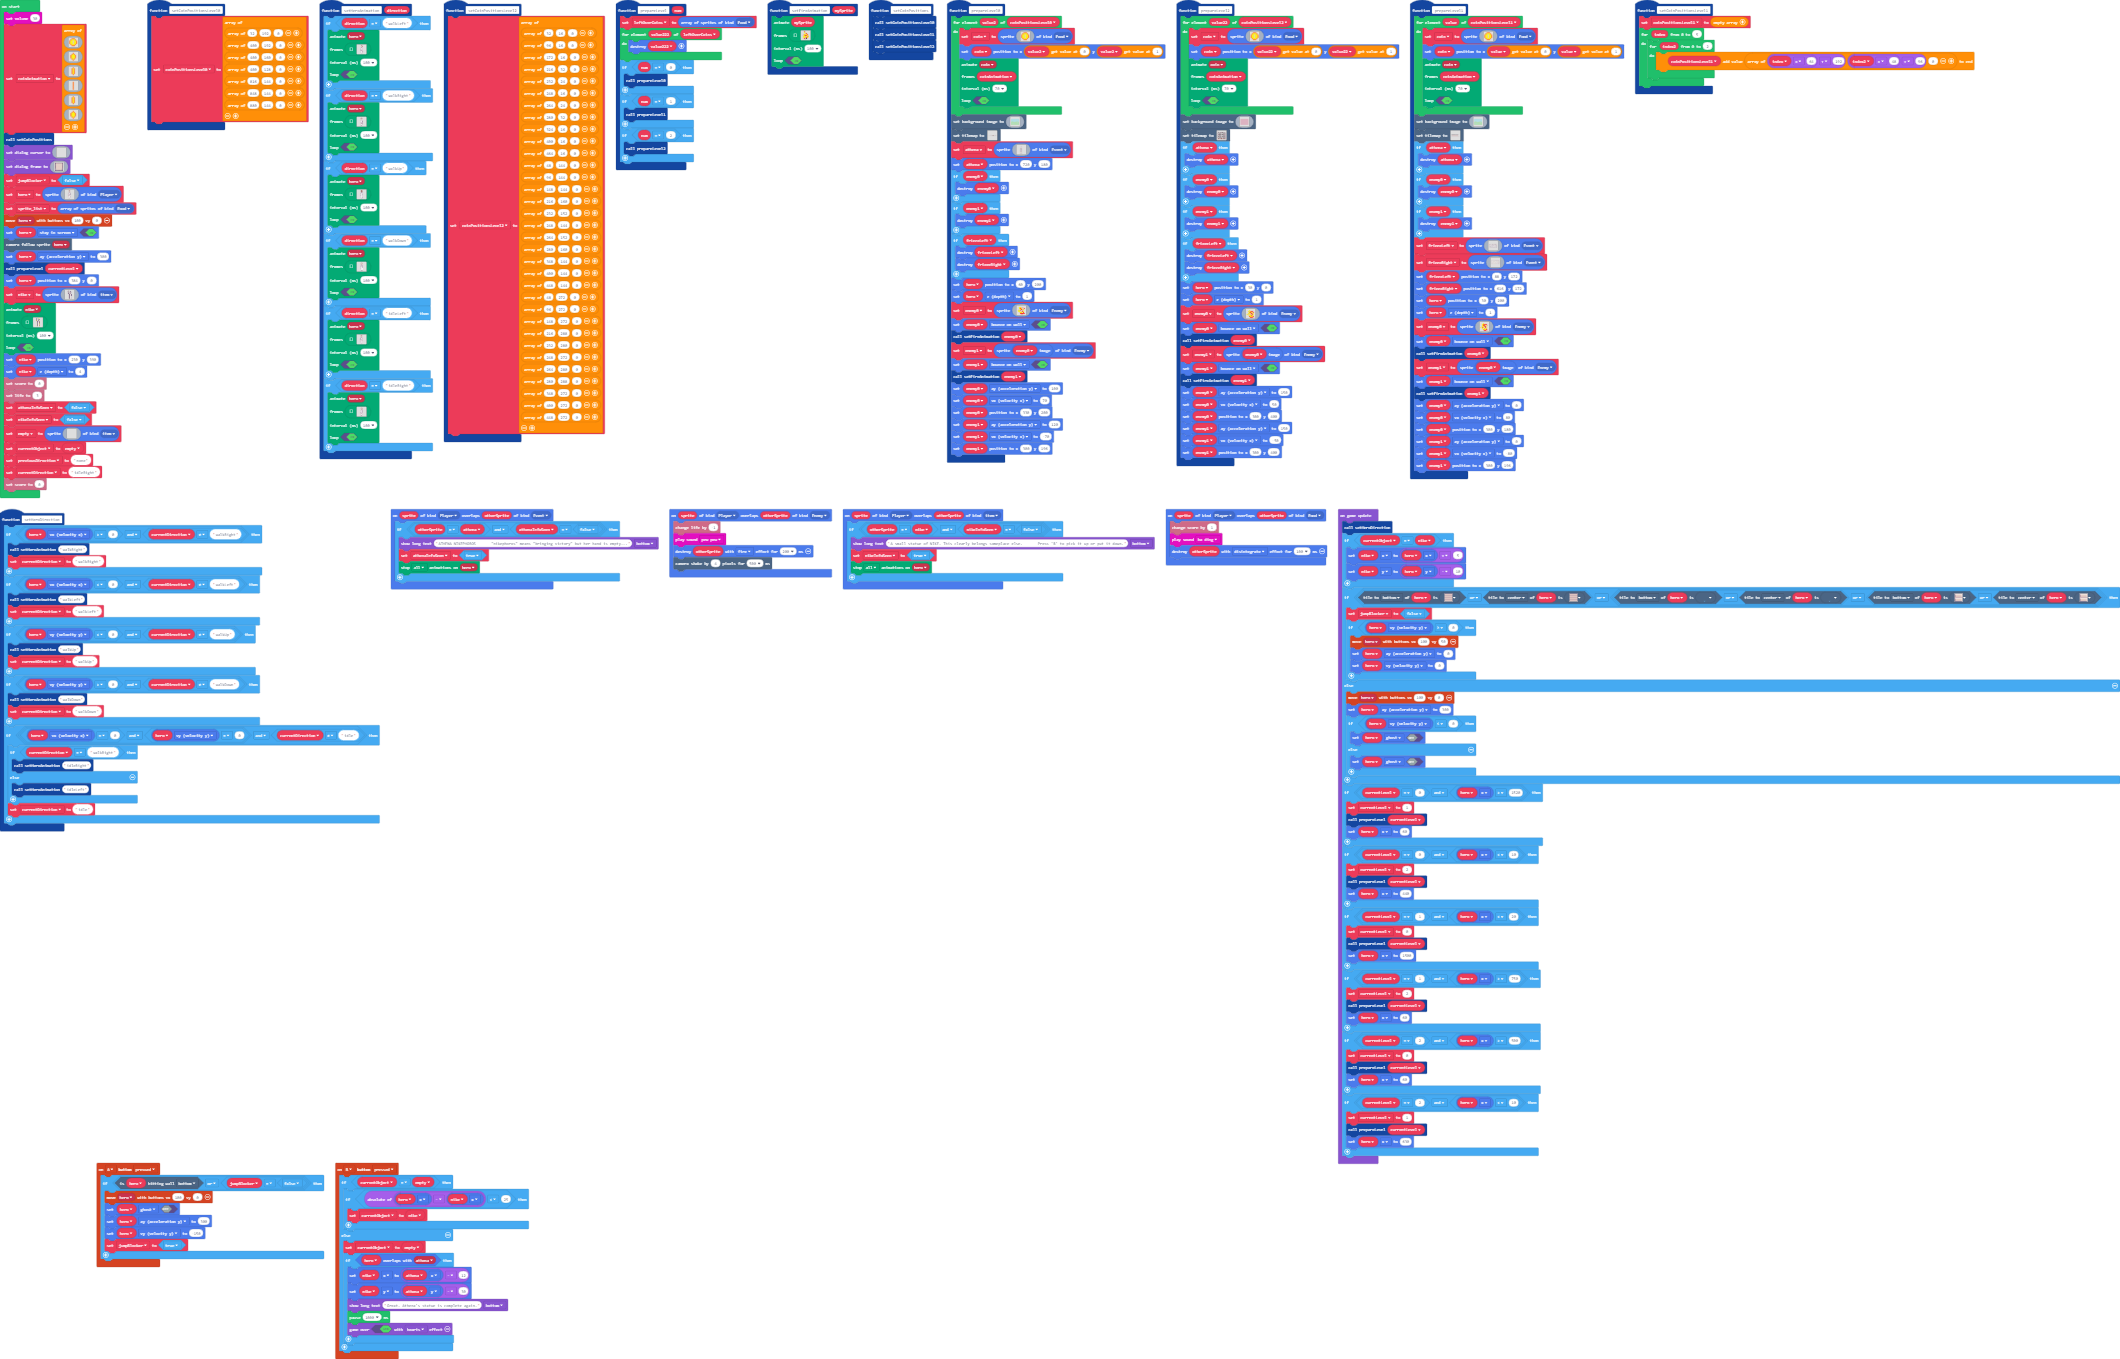
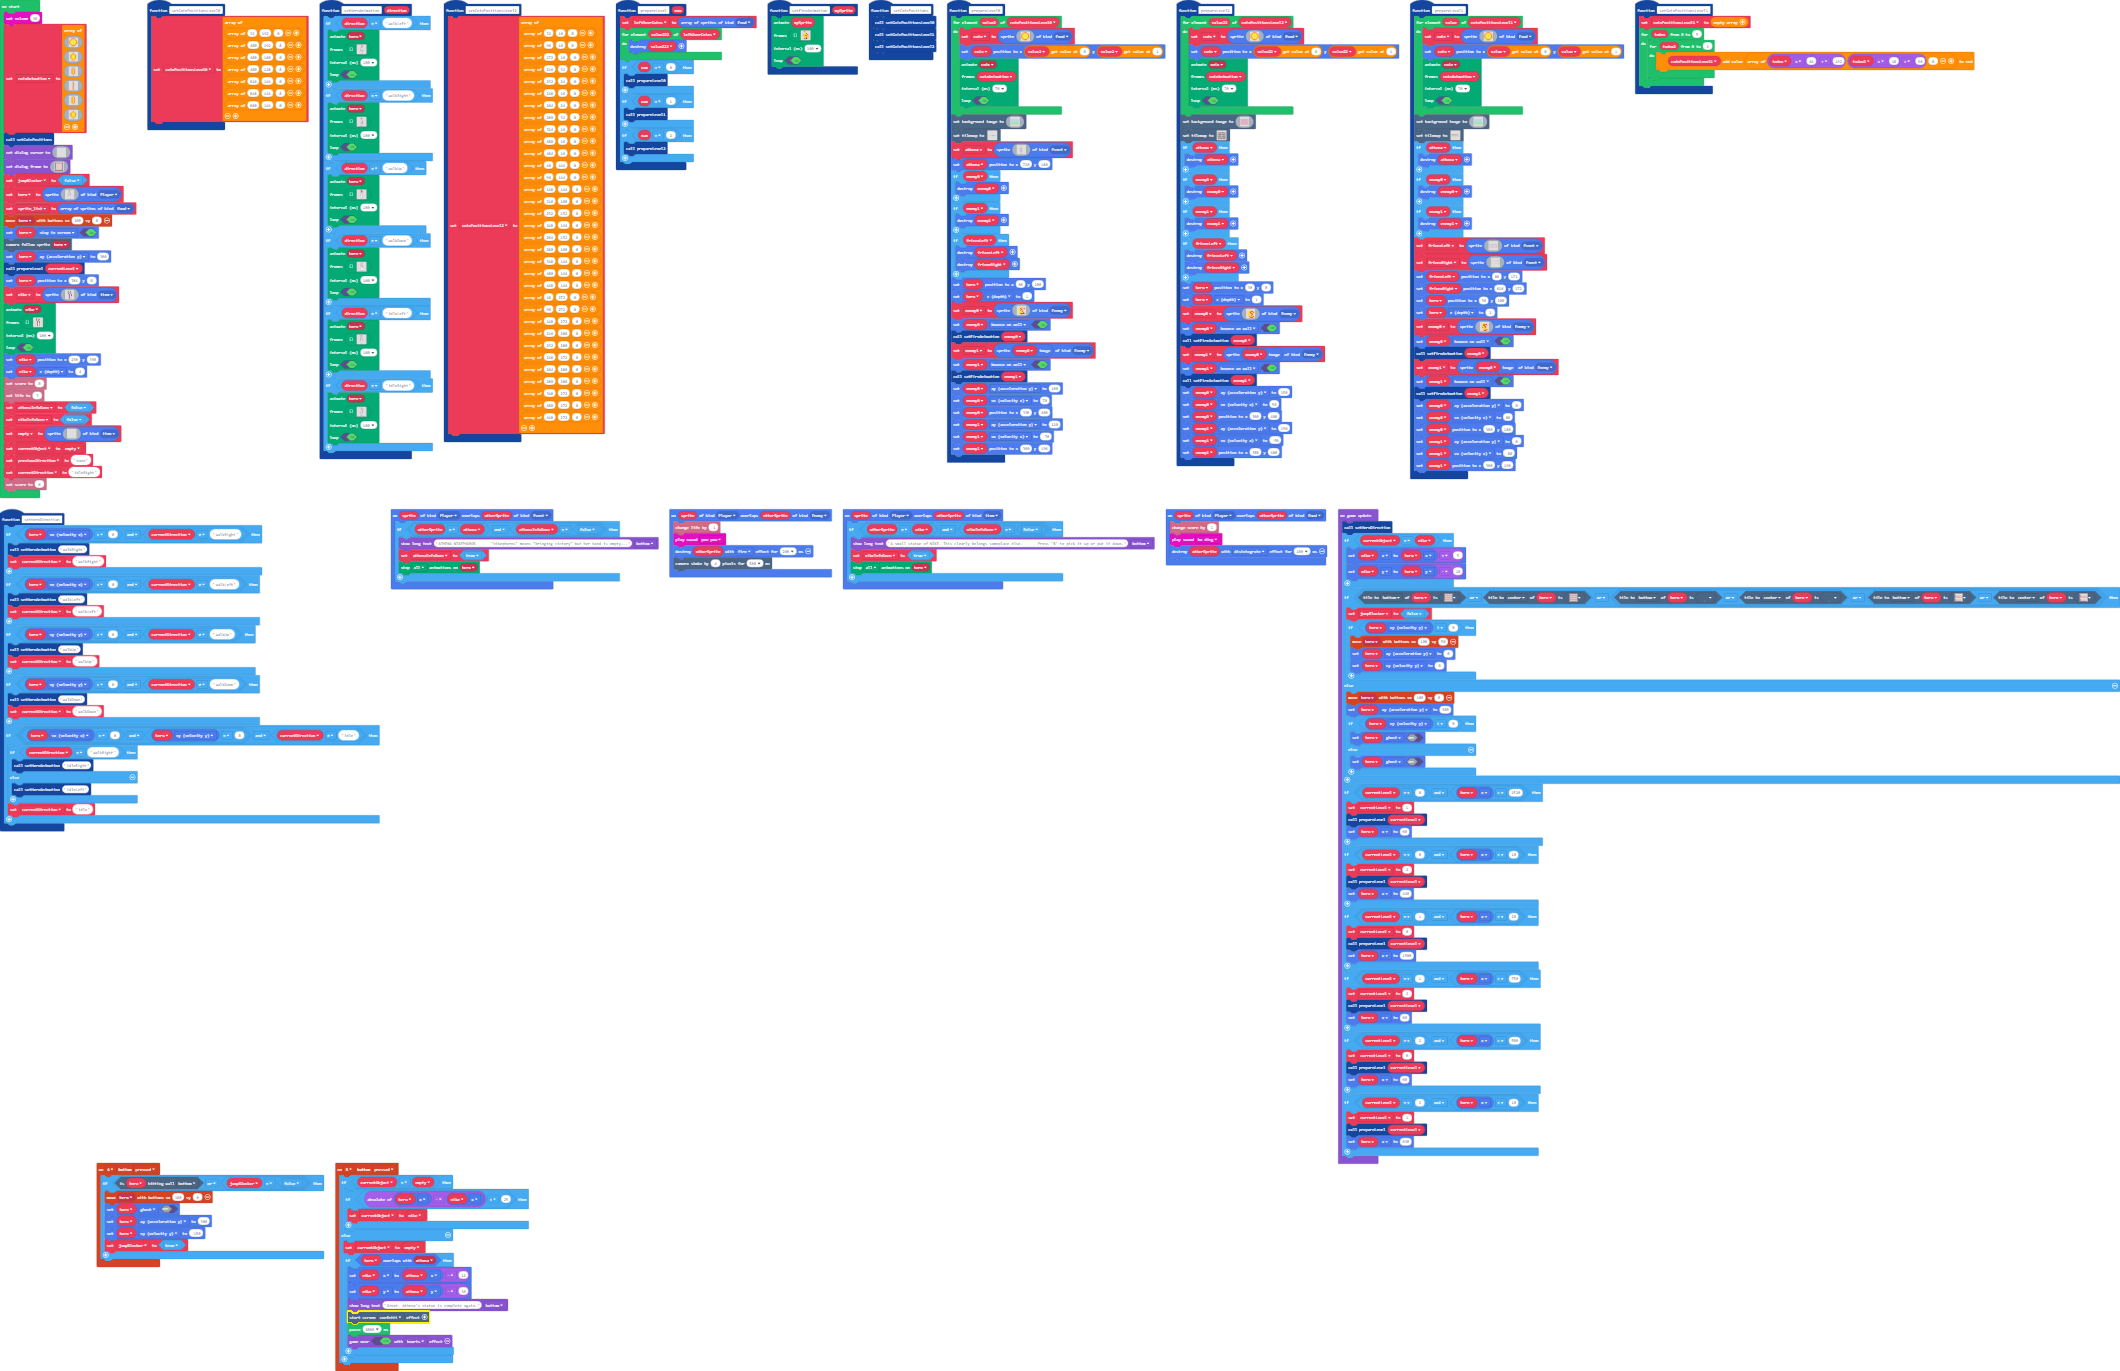
Update main.blocks, main.ts

diff --git a/main.ts b/main.ts
@@ -2282,7 +2282,8 @@ controller.B.onEvent(ControllerButtonEvent.Pressed, function () {
             nike.x = athena.x - 12
             nike.y = athena.y - 30
             game.showLongText("Great. Athena's statue is complete again.", DialogLayout.Bottom)
-            pause(1000)
+            effects.confetti.startScreenEffect()
+            pause(2000)
             game.over(true, effects.hearts)
         }
     }
